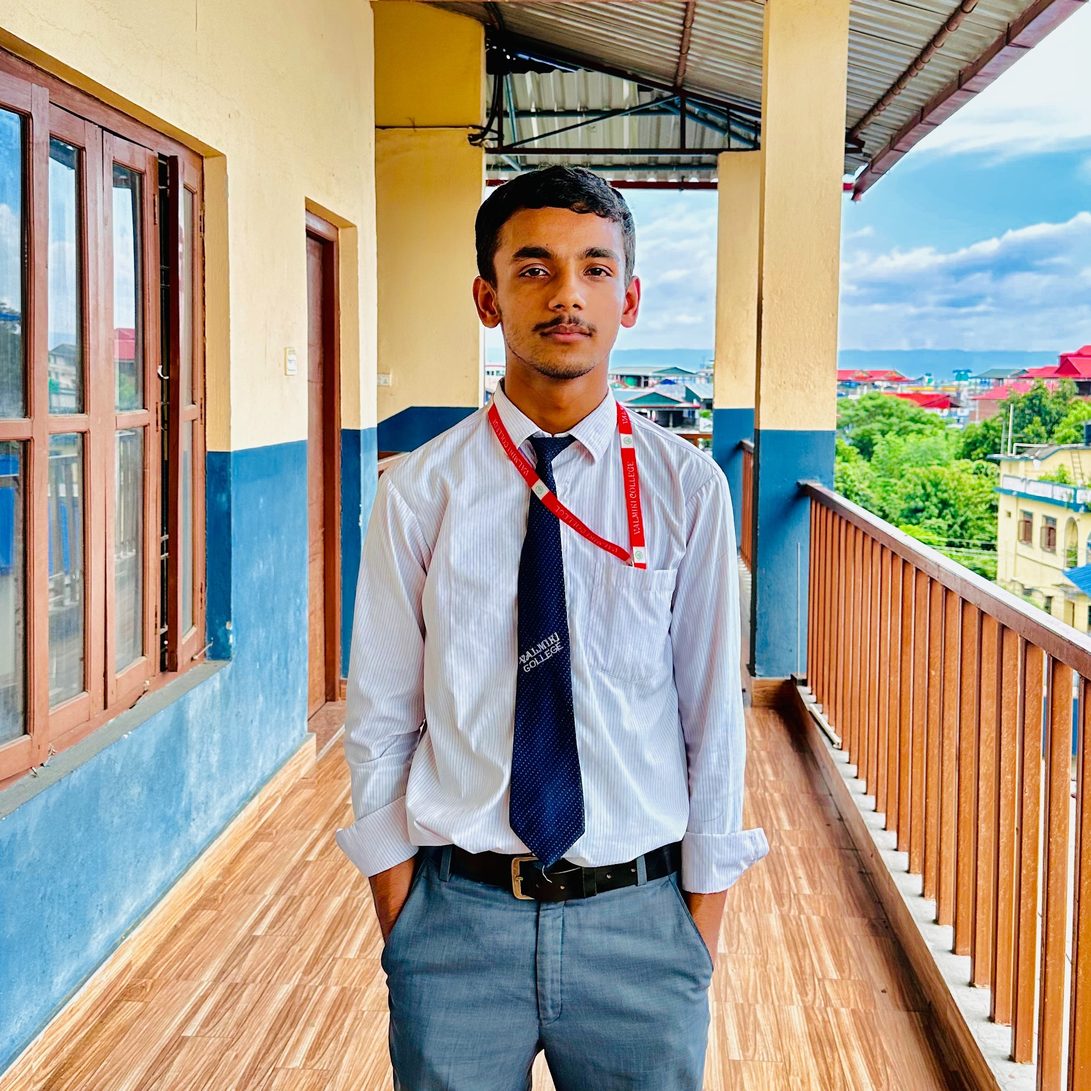
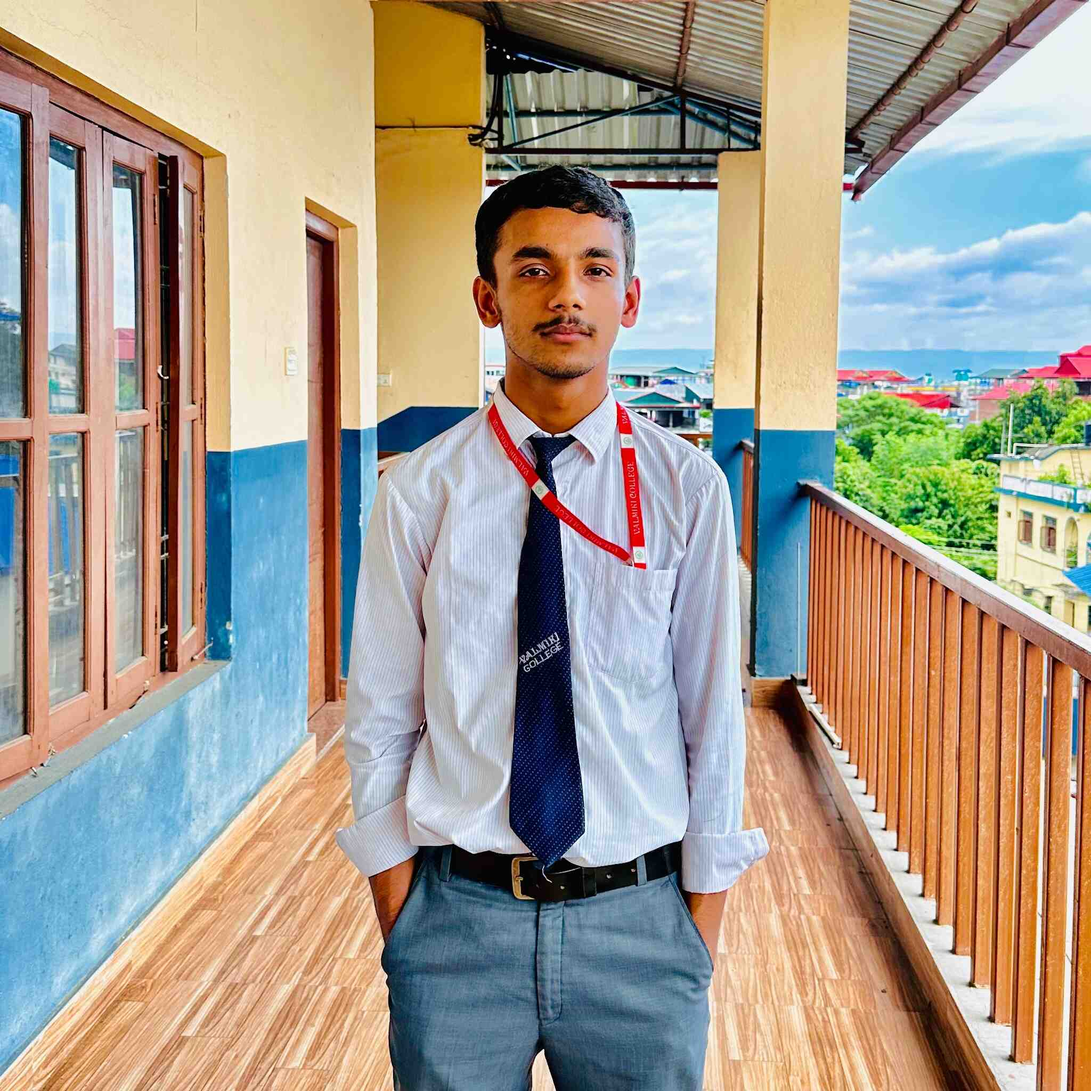
Compressed Image

diff --git a/app/page.tsx b/app/page.tsx
@@ -18,7 +18,7 @@ export default async function Home() {
           <Image
             width={512}
             height={512}
-            src="/animesh.png"
+            src="/animesh.jpeg"
             alt="Animesh"
             className="rounded-full h-32 w-32 shadow-gray-500 shadow-lg hover:scale-110 transition duration-500 ease-in-out"
           />
